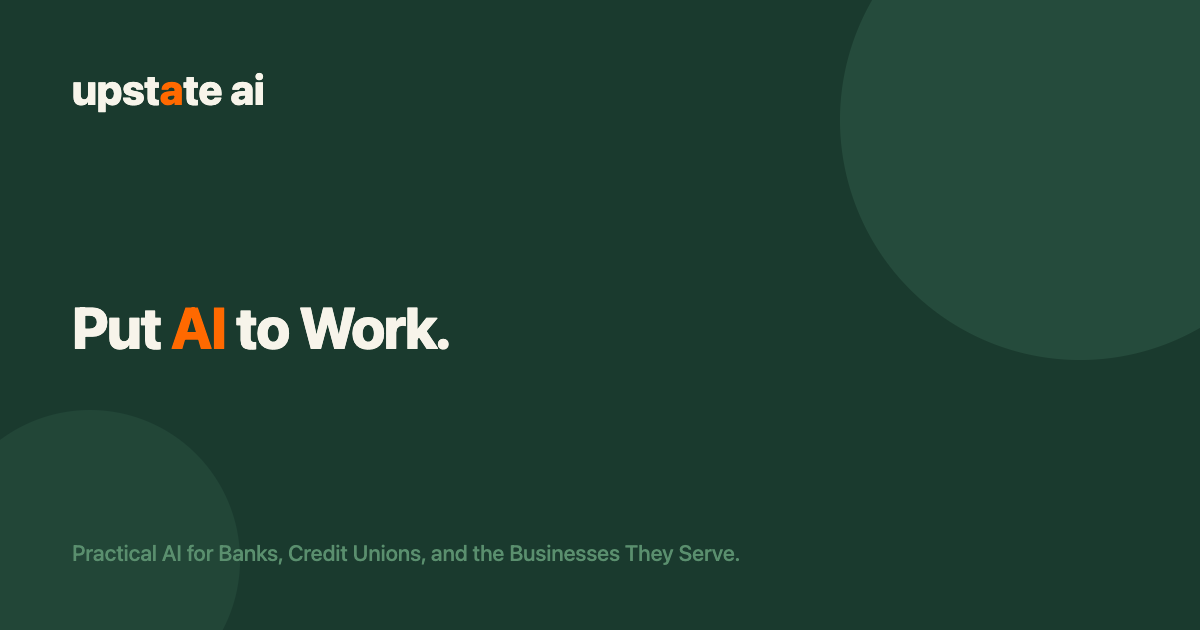
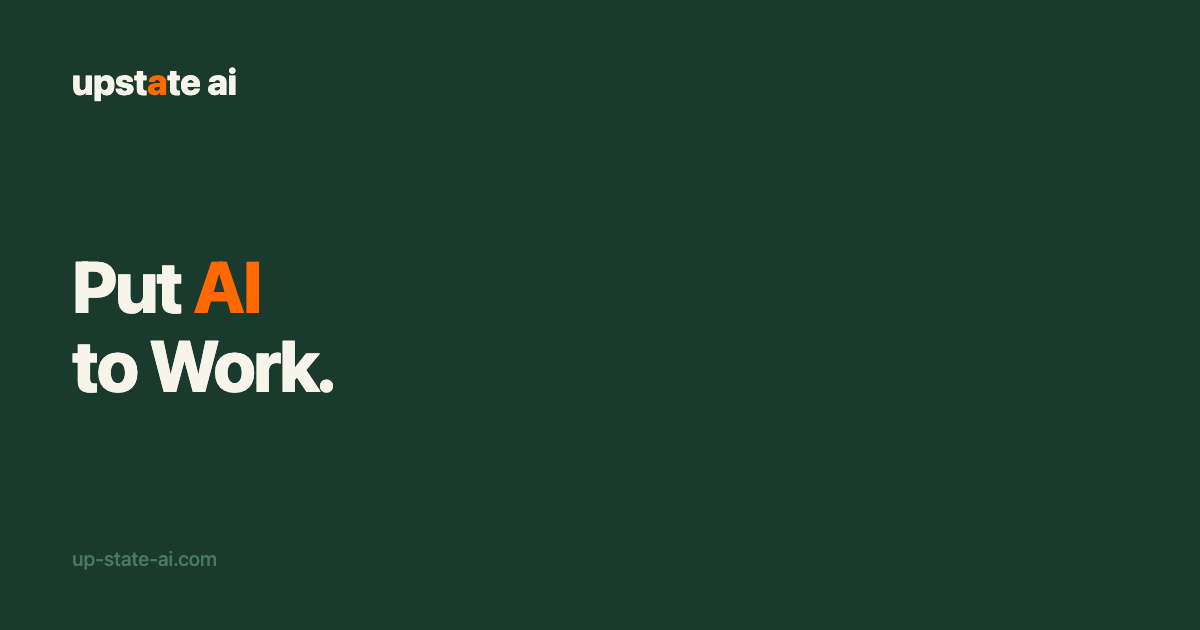
feat: per-post OG images for all 16 blog posts + generate-og.js script

Changed region(s): [[0.0617, 0.3921, 0.37, 0.6333], [0.0617, 0.8444, 0.6167, 0.9048], [0.0617, 0.1206, 0.2158, 0.181]]

diff --git a/scripts/generate-og.js b/scripts/generate-og.js
@@ -1,0 +1,116 @@
+#!/usr/bin/env node
+// generate-og.js — generate OG social card images for blog posts and pages
+// Usage: node scripts/generate-og.js
+// Generates images/og/<slug>.png for each blog post, plus images/og-image.png for the site
+
+import { execSync, spawnSync } from 'child_process';
+import { writeFileSync, mkdirSync, readFileSync } from 'fs';
+import { join, dirname } from 'path';
+import { fileURLToPath } from 'url';
+import os from 'os';
+
+const __dirname = dirname(fileURLToPath(import.meta.url));
+const ROOT = join(__dirname, '..');
+const OG_DIR = join(ROOT, 'images', 'og');
+const CHROME = '/Applications/Google Chrome.app/Contents/MacOS/Google Chrome';
+
+mkdirSync(OG_DIR, { recursive: true });
+
+// Brand
+const GREEN = '#1a3a2e';
+const CREAM = '#f7f4ea';
+const ORANGE = '#ff6900';
+const MUTED = '#4a7a5e';
+
+function buildHtml({ title, category, isGeneric = false }) {
+  if (isGeneric) {
+    return `<!DOCTYPE html><html><head><meta charset="UTF-8"><style>
+*{margin:0;padding:0;box-sizing:border-box;}
+body{width:1200px;height:630px;background:${GREEN};font-family:-apple-system,BlinkMacSystemFont,'Segoe UI',sans-serif;display:flex;flex-direction:column;justify-content:space-between;padding:60px 72px;}
+.logo{font-size:36px;font-weight:800;color:${CREAM};letter-spacing:-0.5px;}
+.logo span{color:${ORANGE};}
+.headline{font-size:72px;font-weight:800;color:${CREAM};line-height:1.1;letter-spacing:-2px;}
+.headline span{color:${ORANGE};}
+.sub{font-size:20px;font-weight:500;color:${MUTED};}
+</style></head><body>
+<div class="logo">upst<span>a</span>te ai</div>
+<div class="headline">Put <span>AI</span><br>to Work.</div>
+<div class="sub">up-state-ai.com</div>
+</body></html>`;
+  }
+
+  // Truncate at word boundary
+  const maxChars = 72;
+  let short = title;
+  if (title.length > maxChars) {
+    short = title.slice(0, maxChars).replace(/\s\S+$/, '') + '...';
+  }
+  const fontSize = short.length > 55 ? '46px' : short.length > 38 ? '54px' : '62px';
+
+  return `<!DOCTYPE html><html><head><meta charset="UTF-8"><style>
+*{margin:0;padding:0;box-sizing:border-box;}
+body{width:1200px;height:630px;background:${GREEN};font-family:-apple-system,BlinkMacSystemFont,'Segoe UI',sans-serif;position:relative;overflow:hidden;}
+.top{position:absolute;top:56px;left:80px;display:flex;align-items:center;gap:14px;}
+.logo{font-size:26px;font-weight:800;color:${CREAM};letter-spacing:-0.5px;}
+.logo span{color:${ORANGE};}
+.tag{background:${ORANGE};color:#fff;font-size:14px;font-weight:700;padding:5px 13px;border-radius:3px;letter-spacing:0.3px;}
+.headline{position:absolute;top:50%;left:80px;right:80px;transform:translateY(-50%);font-size:${fontSize};font-weight:800;color:${CREAM};line-height:1.18;letter-spacing:-1.5px;}
+.domain{position:absolute;bottom:56px;left:80px;font-size:18px;font-weight:500;color:${MUTED};}
+</style></head><body>
+<div class="top"><div class="logo">upst<span>a</span>te ai</div>${category ? `<div class="tag">${category}</div>` : ''}</div>
+<div class="headline">${short}</div>
+<div class="domain">up-state-ai.com</div>
+</body></html>`;
+}
+
+function renderOG(html, outPath) {
+  const tmp = join(os.tmpdir(), `og-${Date.now()}.html`);
+  writeFileSync(tmp, html);
+
+  spawnSync(CHROME, [
+    '--headless=new',
+    `--screenshot=${outPath}`,
+    '--window-size=1200,630',
+    '--force-device-scale-factor=1',
+    '--hide-scrollbars',
+    '--no-sandbox',
+    '--disable-gpu',
+    `file://${tmp}`
+  ], { stdio: 'pipe' });
+
+  execSync(`rm -f "${tmp}"`);
+}
+
+// --- Posts from posts.yml (simple parse) ---
+const postsYml = readFileSync(join(ROOT, '_data', 'posts.yml'), 'utf8');
+const posts = [];
+let current = {};
+for (const line of postsYml.split('\n')) {
+  if (line.match(/^- title:/)) {
+    if (current.url) posts.push(current);
+    current = {};
+  }
+  const titleMatch = line.match(/title:\s*"(.+)"/);
+  const urlMatch = line.match(/url:\s*"(.+)"/);
+  const catMatch = line.match(/category:\s*"(.+)"/);
+  if (titleMatch) current.title = titleMatch[1];
+  if (urlMatch) current.url = urlMatch[1];
+  if (catMatch) current.category = catMatch[1];
+}
+if (current.url) posts.push(current);
+
+// Generic site OG image
+console.log('Generating generic og-image.png...');
+renderOG(buildHtml({ isGeneric: true }), join(ROOT, 'images', 'og-image.png'));
+console.log('  done');
+
+// Per-post OG images
+for (const post of posts) {
+  const slug = post.url.replace('blog/', '');
+  const outPath = join(OG_DIR, `${slug}.png`);
+  console.log(`Generating og/${slug}.png...`);
+  renderOG(buildHtml({ title: post.title, category: post.category }), outPath);
+  console.log('  done');
+}
+
+console.log(`\nGenerated ${posts.length} post images + 1 generic. Output: images/og/`);

diff --git a/blog/90-percent-ceos-ai-no-impact-april-2026.html b/blog/90-percent-ceos-ai-no-impact-april-2026.html
@@ -27,7 +27,7 @@
     <meta property="og:url" content="https://up-state-ai.com/blog/90-percent-ceos-ai-no-impact-april-2026">
     <meta property="og:title" content="90% of CEOs Say AI Had No Impact. Here's Why They're Right. | Upstate AI">
     <meta property="og:description" content="A new NBER study found 90% of firms saw zero productivity impact from AI. The problem isn't AI — it's how companies are adopting it.">
-    <meta property="og:image" content="https://up-state-ai.com/images/og-image.png">
+    <meta property="og:image" content="https://up-state-ai.com/images/og/90-percent-ceos-ai-no-impact-april-2026.png">
     <meta property="og:site_name" content="Upstate AI">
     <meta property="article:published_time" content="2026-04-19">
     <meta property="article:author" content="Ben Nichols">
@@ -51,7 +51,7 @@
                 <a href="../index"><img src="../images/logo.png" alt="Upstate AI Logo" class="logo"></a>
             </div>
             <ul class="nav-menu">
-                <li><a href="../ai-readiness-assessment">Assessment</a></li>
+
                 <li><a href="../free-training">Complimentary Training</a></li>
                 <li><a href="../index#services">Services</a></li>
                 <li><a href="../index#about">About</a></li>

diff --git a/blog/agentic-ai-march-2026.html b/blog/agentic-ai-march-2026.html
@@ -26,7 +26,7 @@
     <meta property="og:url" content="https://up-state-ai.com/blog/agentic-ai-march-2026">
     <meta property="og:title" content="The AI Week: March 17–24, 2026">
     <meta property="og:description" content="NVIDIA bets $1 trillion on AI factories, Claude takes the wheel on macOS, and the agent infrastructure stack gets real. Your weekly AI briefing.">
-    <meta property="og:image" content="https://up-state-ai.com/images/og-image.png">
+    <meta property="og:image" content="https://up-state-ai.com/images/og/agentic-ai-march-2026.png">
     <meta property="og:site_name" content="Upstate AI">
     <meta property="article:published_time" content="2026-03-24">
     <meta property="article:author" content="Ben Nichols">
@@ -49,7 +49,7 @@
                 <a href="../index"><img src="../images/logo.png" alt="Upstate AI Logo" class="logo"></a>
             </div>
             <ul class="nav-menu">
-                <li><a href="../ai-readiness-assessment">Assessment</a></li>
+
                 <li><a href="../free-training">Complimentary Training</a></li>
                 <li><a href="../index#services">Services</a></li>
                 <li><a href="../index#about">About</a></li>

diff --git a/blog/agentic-payments-community-banks-april-2026.html b/blog/agentic-payments-community-banks-april-2026.html
@@ -27,7 +27,7 @@
     <meta property="og:url" content="https://up-state-ai.com/blog/agentic-payments-community-banks-april-2026">
     <meta property="og:title" content="AI Agents Can Now Swipe Your Card. Community Banks Need to Pay Attention. | Upstate AI">
     <meta property="og:description" content="Mastercard just gave AI agents the ability to use your credit card. Here's what that means for community banks, and why sitting this out isn't an option.">
-    <meta property="og:image" content="https://up-state-ai.com/images/og-image.png">
+    <meta property="og:image" content="https://up-state-ai.com/images/og/agentic-payments-community-banks-april-2026.png">
     <meta property="og:site_name" content="Upstate AI">
     <meta property="article:published_time" content="2026-04-18">
     <meta property="article:author" content="Ben Nichols">
@@ -51,7 +51,7 @@
                 <a href="../index"><img src="../images/logo.png" alt="Upstate AI Logo" class="logo"></a>
             </div>
             <ul class="nav-menu">
-                <li><a href="../ai-readiness-assessment">Assessment</a></li>
+
                 <li><a href="../free-training">Complimentary Training</a></li>
                 <li><a href="../index#services">Services</a></li>
                 <li><a href="../index#about">About</a></li>

diff --git a/blog/ai-governance-ready-march-2026.html b/blog/ai-governance-ready-march-2026.html
@@ -26,7 +26,7 @@
     <meta property="og:url" content="https://up-state-ai.com/blog/ai-governance-ready-march-2026">
     <meta property="og:title" content="Before You Deploy an AI Agent, Read This">
     <meta property="og:description" content="AI agents are gaining real autonomy. Before your business deploys one, you need a governance framework. Here's what that actually looks like.">
-    <meta property="og:image" content="https://up-state-ai.com/images/og-image.png">
+    <meta property="og:image" content="https://up-state-ai.com/images/og/ai-governance-ready-march-2026.png">
     <meta property="og:site_name" content="Upstate AI">
     <meta property="article:published_time" content="2026-03-24">
     <meta property="article:author" content="Ben Nichols">
@@ -49,7 +49,7 @@
                 <a href="../index"><img src="../images/logo.png" alt="Upstate AI Logo" class="logo"></a>
             </div>
             <ul class="nav-menu">
-                <li><a href="../ai-readiness-assessment">Assessment</a></li>
+
                 <li><a href="../free-training">Complimentary Training</a></li>
                 <li><a href="../index#services">Services</a></li>
                 <li><a href="../index#about">About</a></li>

diff --git a/blog/ai-inflection-point-td-bank-2026.html b/blog/ai-inflection-point-td-bank-2026.html
@@ -26,7 +26,7 @@
     <meta property="og:url" content="https://up-state-ai.com/blog/ai-inflection-point-td-bank-2026">
     <meta property="og:title" content="The AI Inflection Point: What TD Bank's 2026 Report Means for Your Business">
     <meta property="og:description" content="TD Bank's latest AI report shows a 15-point gap between ambition and adoption. Here's how Central NY companies can close it.">
-    <meta property="og:image" content="https://up-state-ai.com/images/og-image.png">
+    <meta property="og:image" content="https://up-state-ai.com/images/og/ai-inflection-point-td-bank-2026.png">
     <meta property="og:site_name" content="Upstate AI">
     <meta property="article:published_time" content="2026-04-03">
     <meta property="article:author" content="Ben Nichols">
@@ -49,7 +49,7 @@
                 <a href="../index.html"><img src="../images/logo.png" alt="Upstate AI Logo" class="logo"></a>
             </div>
             <ul class="nav-menu">
-                <li><a href="../ai-readiness-assessment.html">Assessment</a></li>
+
                 <li><a href="../free-training.html">Complimentary Training</a></li>
                 <li><a href="../index.html#services">Services</a></li>
                 <li><a href="../index.html#about">About</a></li>

diff --git a/blog/ai-literacy-st-bonaventure-april-2026.html b/blog/ai-literacy-st-bonaventure-april-2026.html
@@ -26,7 +26,7 @@
     <meta property="og:url" content="https://up-state-ai.com/blog/ai-literacy-st-bonaventure-april-2026">
     <meta property="og:title" content="St. Bonaventure Just Made the Smartest Move in Higher Ed">
     <meta property="og:description" content="St. Bonaventure University just made AI literacy mandatory for every incoming freshman. Here's why this is the smartest move in higher education, and what CNY businesses need to learn from it.">
-    <meta property="og:image" content="https://up-state-ai.com/images/og-image.png">
+    <meta property="og:image" content="https://up-state-ai.com/images/og/ai-literacy-st-bonaventure-april-2026.png">
     <meta property="og:site_name" content="Upstate AI">
     <meta property="article:published_time" content="2026-04-01">
     <meta property="article:author" content="Ben Nichols">
@@ -50,7 +50,7 @@
                 <a href="../index"><img src="../images/logo.png" alt="Upstate AI Logo" class="logo"></a>
             </div>
             <ul class="nav-menu">
-                <li><a href="../ai-readiness-assessment">Assessment</a></li>
+
                 <li><a href="../free-training">Complimentary Training</a></li>
                 <li><a href="../index#services">Services</a></li>
                 <li><a href="../index#about">About</a></li>

diff --git a/blog/ai-pilots-fail-march-2026.html b/blog/ai-pilots-fail-march-2026.html
@@ -26,7 +26,7 @@
     <meta property="og:url" content="https://up-state-ai.com/blog/ai-pilots-fail-march-2026">
     <meta property="og:title" content="Why 95% of AI Pilots Fail (And How to Unlock Real ROI in Weeks)">
     <meta property="og:description" content="MIT found 95% of AI pilots fail. McKinsey found two-thirds stuck in pilot mode. Learn the task-level mismatch causing failures and the 4-step framework the successful 5% use.">
-    <meta property="og:image" content="https://up-state-ai.com/images/og-image.png">
+    <meta property="og:image" content="https://up-state-ai.com/images/og/ai-pilots-fail-march-2026.png">
     <meta property="og:site_name" content="Upstate AI">
     <meta property="article:published_time" content="2026-03-30">
     <meta property="article:author" content="Ben Nichols">
@@ -50,7 +50,7 @@
                 <a href="../index"><img src="../images/logo.png" alt="Upstate AI Logo" class="logo"></a>
             </div>
             <ul class="nav-menu">
-                <li><a href="../ai-readiness-assessment">Assessment</a></li>
+
                 <li><a href="../free-training">Complimentary Training</a></li>
                 <li><a href="../index#services">Services</a></li>
                 <li><a href="../index#about">About</a></li>

diff --git a/blog/ai-weekly-april-13-2026.html b/blog/ai-weekly-april-13-2026.html
@@ -27,7 +27,7 @@
     <meta property="og:url" content="https://up-state-ai.com/blog/ai-weekly-april-13-2026">
     <meta property="og:title" content="AI Just Got Cheaper, Smarter, and Closer to Your Business | Upstate AI">
     <meta property="og:description" content="A breakdown of this week's biggest AI developments, and why they matter more to a manufacturer in Syracuse than a startup in San Francisco.">
-    <meta property="og:image" content="https://up-state-ai.com/images/og-image.png">
+    <meta property="og:image" content="https://up-state-ai.com/images/og/ai-weekly-april-13-2026.png">
     <meta property="og:site_name" content="Upstate AI">
     <meta property="article:published_time" content="2026-04-13">
     <meta property="article:author" content="Ben Nichols">
@@ -51,7 +51,7 @@
                 <a href="../index"><img src="../images/logo.png" alt="Upstate AI Logo" class="logo"></a>
             </div>
             <ul class="nav-menu">
-                <li><a href="../ai-readiness-assessment">Assessment</a></li>
+
                 <li><a href="../free-training">Complimentary Training</a></li>
                 <li><a href="../index#services">Services</a></li>
                 <li><a href="../index#about">About</a></li>

diff --git a/blog/ai-weekly-march-31-2026.html b/blog/ai-weekly-march-31-2026.html
@@ -26,7 +26,7 @@
     <meta property="og:url" content="https://up-state-ai.com/blog/ai-weekly-march-31-2026">
     <meta property="og:title" content="AI Weekly Roundup: The Mystery Model, The Leaked Titan, and What Businesses Need to Know">
     <meta property="og:description" content="This week in AI: Hunter Alpha's mysterious debut, Anthropic's Mythos leak, the March model release wave, and what agentic AI means for CNY businesses.">
-    <meta property="og:image" content="https://up-state-ai.com/images/og-image.png">
+    <meta property="og:image" content="https://up-state-ai.com/images/og/ai-weekly-march-31-2026.png">
     <meta property="og:site_name" content="Upstate AI">
     <meta property="article:published_time" content="2026-03-31">
     <meta property="article:author" content="Ben Nichols">
@@ -50,7 +50,7 @@
                 <a href="../index"><img src="../images/logo.png" alt="Upstate AI Logo" class="logo"></a>
             </div>
             <ul class="nav-menu">
-                <li><a href="../ai-readiness-assessment">Assessment</a></li>
+
                 <li><a href="../free-training">Complimentary Training</a></li>
                 <li><a href="../index#services">Services</a></li>
                 <li><a href="../index#about">About</a></li>

diff --git a/blog/anthropic-glasswing-april-2026.html b/blog/anthropic-glasswing-april-2026.html
@@ -27,7 +27,7 @@
     <meta property="og:url" content="https://up-state-ai.com/blog/anthropic-glasswing-april-2026">
     <meta property="og:title" content="Anthropic's Project Glasswing: AI's New Role in Cybersecurity | Upstate AI">
     <meta property="og:description" content="Anthropic announces Project Glasswing, uniting tech giants to use AI for defensive cybersecurity. What this means for your business as AI makes hacking easier, and defense smarter.">
-    <meta property="og:image" content="https://up-state-ai.com/images/og-image.png">
+    <meta property="og:image" content="https://up-state-ai.com/images/og/anthropic-glasswing-april-2026.png">
     <meta property="og:site_name" content="Upstate AI">
     <meta property="article:published_time" content="2026-04-08">
     <meta property="article:author" content="Ben Nichols">
@@ -51,7 +51,7 @@
                 <a href="../index"><img src="../images/logo.png" alt="Upstate AI Logo" class="logo"></a>
             </div>
             <ul class="nav-menu">
-                <li><a href="../ai-readiness-assessment">Assessment</a></li>
+
                 <li><a href="../free-training">Complimentary Training</a></li>
                 <li><a href="../index#services">Services</a></li>
                 <li><a href="../index#about">About</a></li>

diff --git a/blog/build-vs-buy-ai-april-2026.html b/blog/build-vs-buy-ai-april-2026.html
@@ -26,7 +26,7 @@
     <meta property="og:url" content="https://up-state-ai.com/blog/build-vs-buy-ai-april-2026">
     <meta property="og:title" content="Build vs. Buy in the Age of AI | Upstate AI">
     <meta property="og:description" content="Build vs. buy was always a spectrum. AI has made it a moving spectrum. The real question in 2026 isn't what to build — it's who you trust to maintain it.">
-    <meta property="og:image" content="https://up-state-ai.com/images/og-image.png">
+    <meta property="og:image" content="https://up-state-ai.com/images/og/build-vs-buy-ai-april-2026.png">
     <meta property="og:site_name" content="Upstate AI">
     <meta property="article:published_time" content="2026-04-30">
     <meta property="article:author" content="Ben Nichols">
@@ -50,7 +50,7 @@
                 <a href="../index"><img src="../images/logo.png" alt="Upstate AI Logo" class="logo"></a>
             </div>
             <ul class="nav-menu">
-                <li><a href="../ai-readiness-assessment">Assessment</a></li>
+
                 <li><a href="../free-training">Complimentary Training</a></li>
                 <li><a href="../index#services">Services</a></li>
                 <li><a href="../index#about">About</a></li>